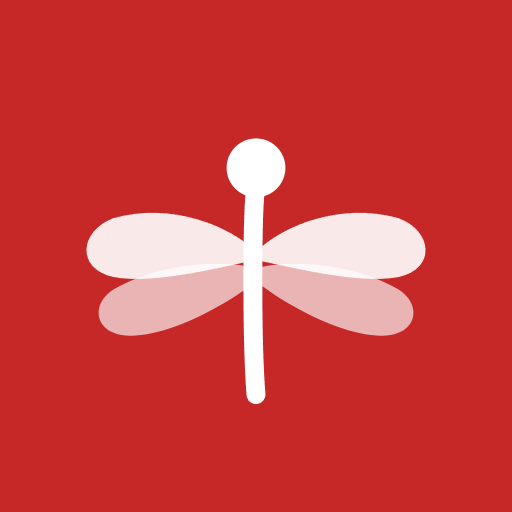
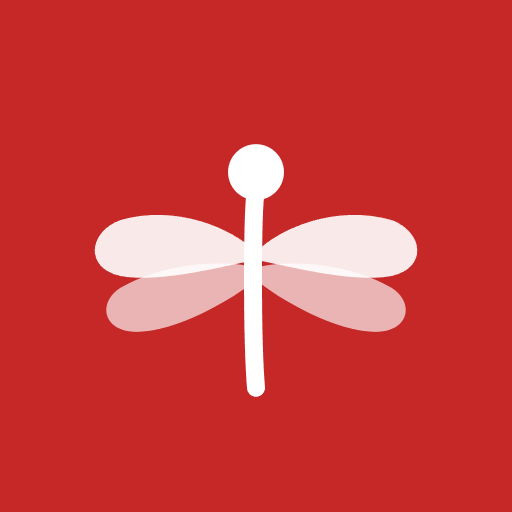
独自のスプラッシュスクリーンを完全に削除し、OS標準のみに一本化

diff --git a/frontend/public/generate-icon.html b/frontend/public/generate-icon.html
@@ -14,7 +14,7 @@
 <script>
 const svg = `<svg width="512" height="512" viewBox="0 0 100 100" xmlns="http://www.w3.org/2000/svg">
   <rect width="100" height="100" fill="#C62828"/>
-  <g transform="translate(50,50) scale(0.82) translate(-50,-50)">
+  <g transform="translate(50,50) scale(0.78) translate(-50,-50)">
     <path d="M50 49 C44 43,30 37,16 41 C8 44,7 53,16 55 C26 57,44 52,50 51Z" fill="white" opacity="0.9"/>
     <path d="M50 49 C56 43,70 37,84 41 C92 44,93 53,84 55 C74 57,56 52,50 51Z" fill="white" opacity="0.9"/>
     <path d="M50 53 C44 51,28 51,16 58 C10 62,12 69,20 69 C30 69,44 61,50 56Z" fill="white" opacity="0.65"/>
